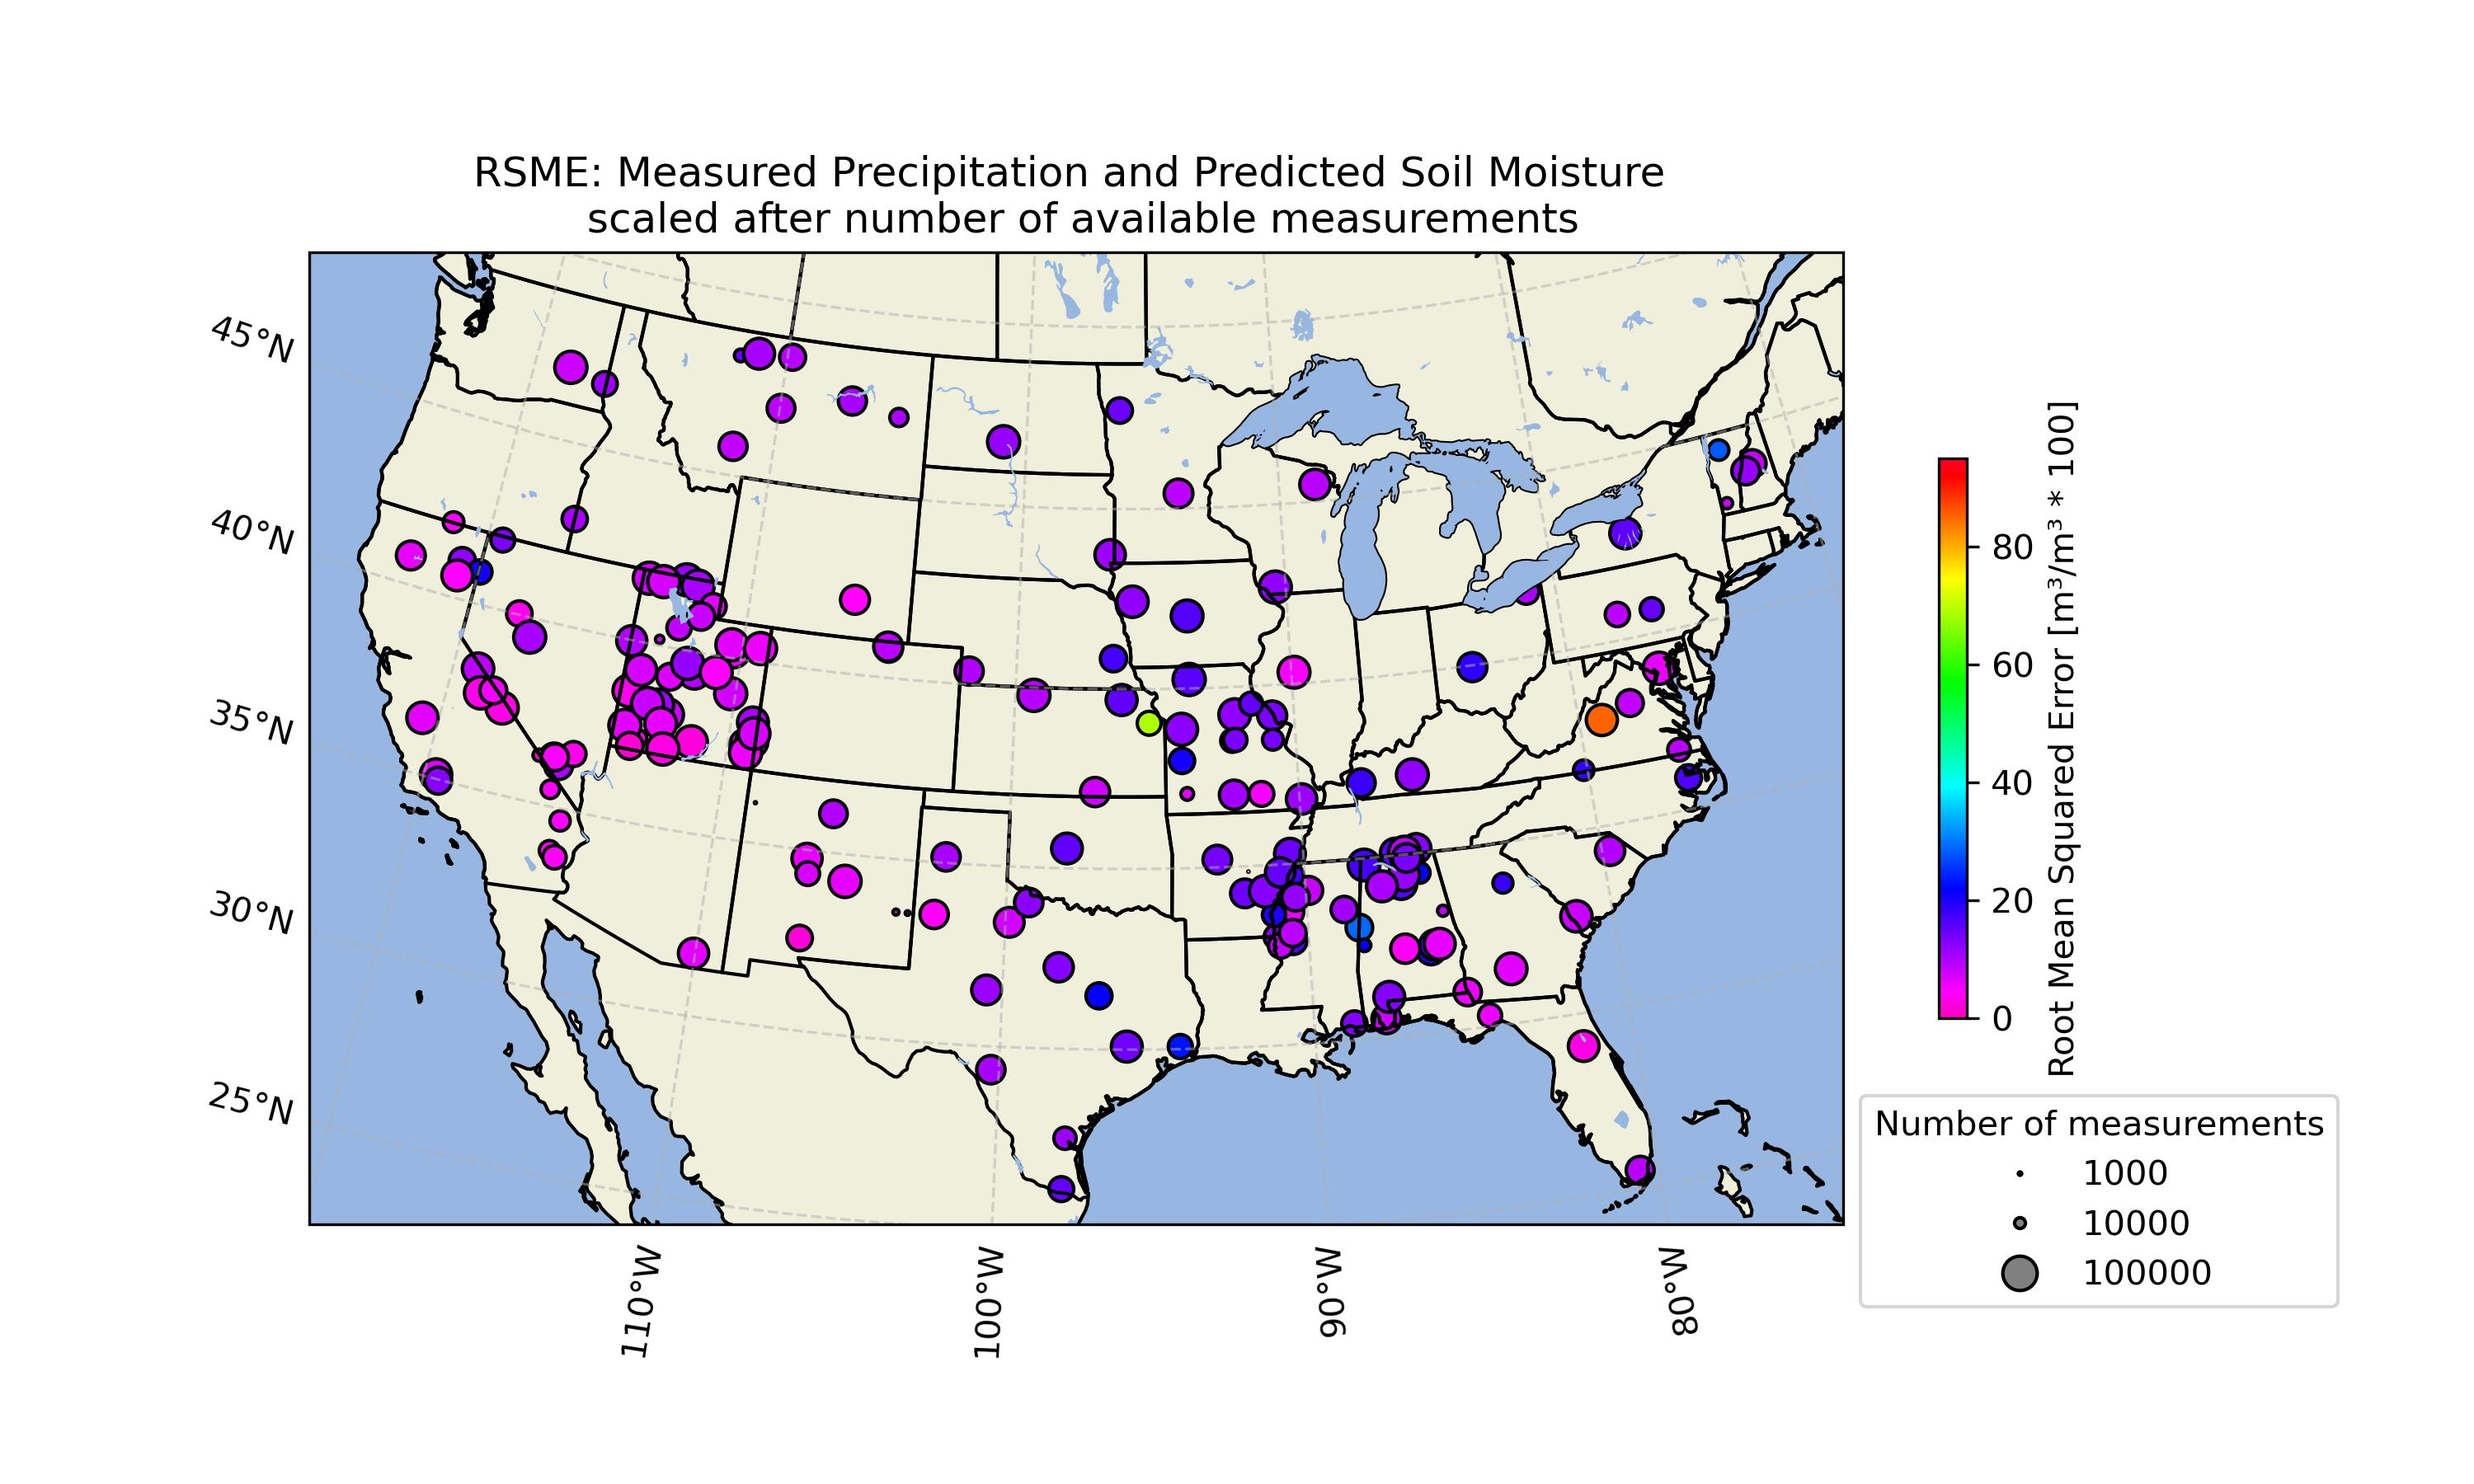
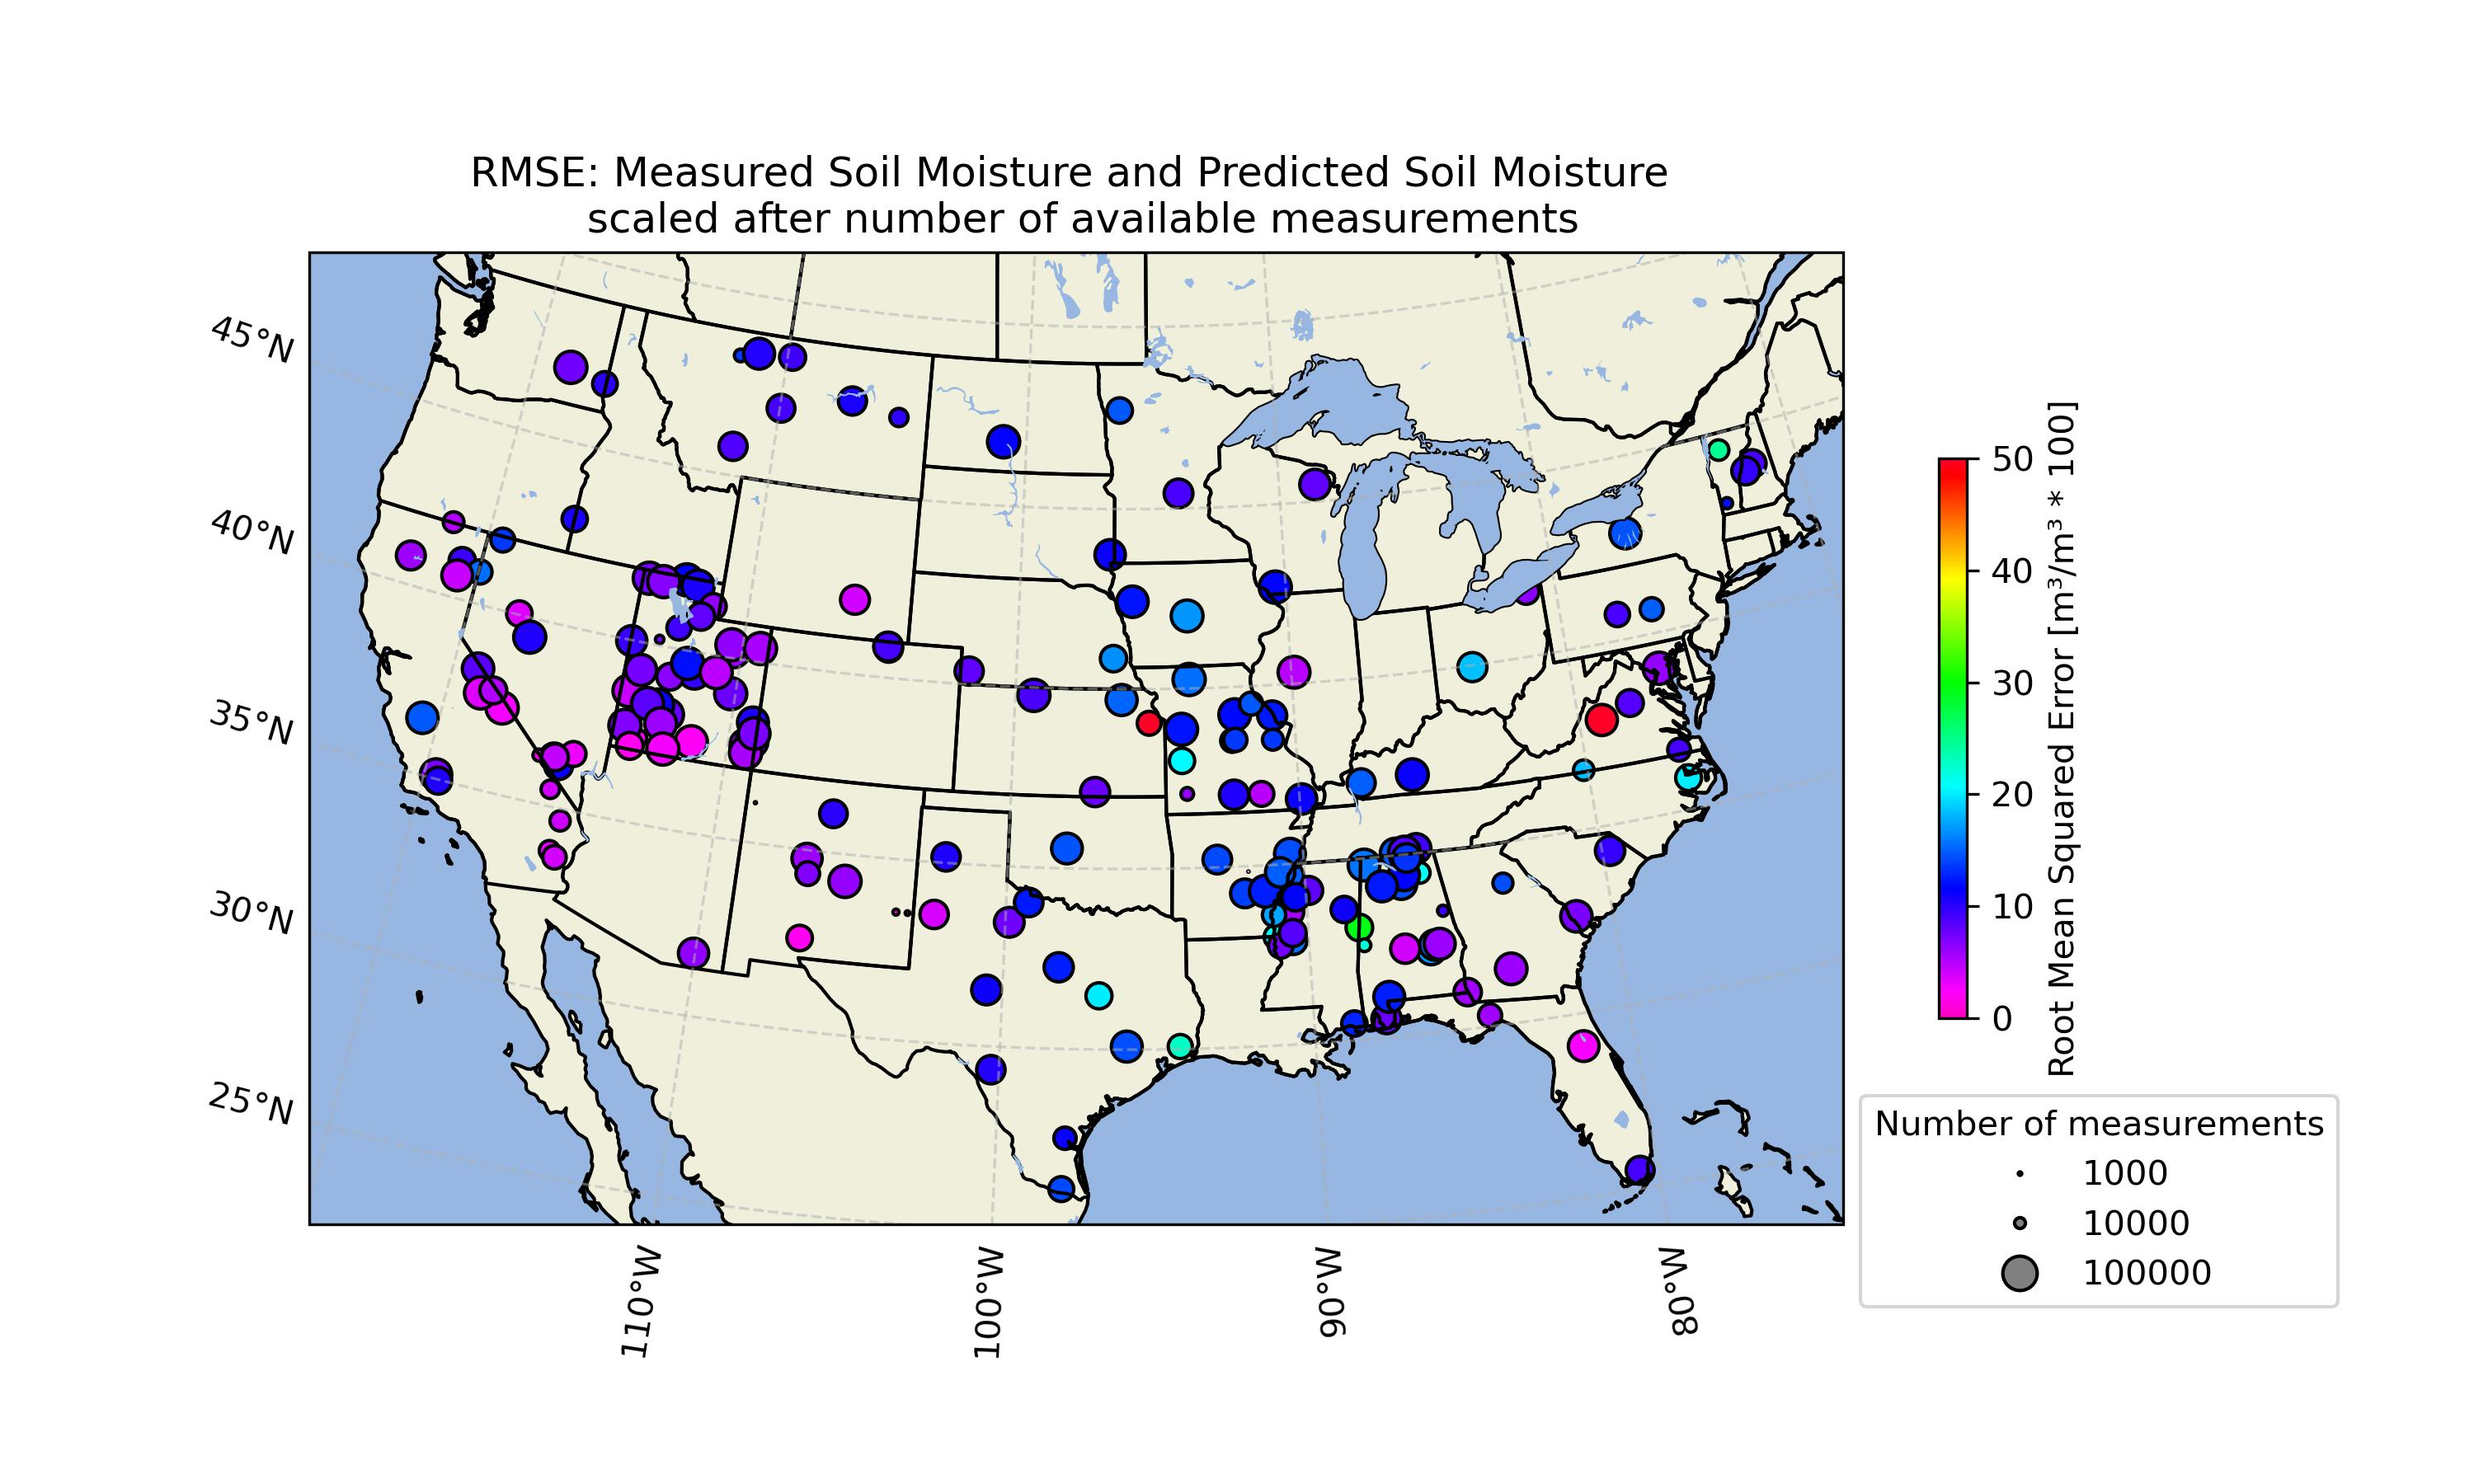
sm_prediction_syn func deleted

diff --git a/SoilMoisture.py b/SoilMoisture.py
@@ -15,11 +15,11 @@ import cartopy.feature as cfeature
 import matplotlib.lines as mlines
 
 # Felix
-path = r"C:\Users\felix\OneDrive\Dokumente\TU Wien\Geowissenschaften-Python\Data_separate_files_header_20140517_20240517_11180_U02A_20240529.zip"
+#path = r"C:\Users\felix\OneDrive\Dokumente\TU Wien\Geowissenschaften-Python\Data_separate_files_header_20140517_20240517_11180_U02A_20240529.zip"
 # Bettina
 #path = r"C:\Users\betti\OneDrive\STUDIUM\SS24\Python für Geowissenschaften\SoftwareProject\Data_separate_files_header_20140517_20240517_11181_y6B1_20240517.zip"
 # Theresa
-#path = r"/Users/theresa/Documents/UIW/Master/Python-Programmierung für Geowissenschaften/Data_separate_files_header_20140517_20240517_11182_NAWF_20240517.zip"
+path = r"/Users/theresa/Documents/UIW/Master/Python-Programmierung für Geowissenschaften/Projekt/Data_separate_files_header_20140517_20240517_11182_NAWF_20240517.zip"
 
 # read in the data:
 ismn_data = ISMN_Interface(path, parallel=False)
@@ -418,7 +418,6 @@ station_nam = "TidewaterArec" # sm n_m missing: 24; pc n_missing: 25; up to 2019
 df_1, df_2 = sm_prediction(station_nam)
 ds_pc = df_1['pc_unimputed']
 
-#percentage = [10, 20, 30, 50, 70]
 percentage = range(0,100,10)
 ds_del_l = []
 
@@ -596,79 +595,8 @@ ds_pc.plot(label='measured precipitation')
 ds_syn_pc.plot(label='synthetic precipitation')
 ax.legend()
 
-#%%
-# change station_filtered function to use synthetic precipitation instead of measured
-
-def station_filtered_syn(station_nam):
-
-    station = ismn_data['SCAN'][station_nam]
-    
-    sens = station.sensors
-    
-    target_string = "precipitation"
-    prec_sensor = [sensor for sensor in sens if target_string in sensor][-1] #changed from 0 to -1 to have pulse count pc sensor (newer data)
-    
-    target_string = "soil_moisture"
-    sm_sensor = [sensor for sensor in sens if target_string in sensor][0]
-
-    sensor_sm = ismn_data['SCAN'][station_nam][sm_sensor] #sm sensors are usually second to last
-    sensor_pc = ismn_data['SCAN'][station_nam][prec_sensor] #precipitation sensor is usually first
-
-    #get lon lat from station:
-    lon, lat = sensor_sm.metadata.to_dict()['longitude'][0][0], sensor_sm.metadata.to_dict()['latitude'][0][0]
-    
-    sm_filter = sensor_sm.data.soil_moisture[sensor_sm.data.soil_moisture >= 0]
-    pc_filter = sensor_pc.data.precipitation[sensor_pc.data.precipitation >= 0]#[sensor_pc.data.precipitation < 100]
-    
-    # imput missing hourly values
-    start_date = sm_filter.index.min()
-    end_date = pc_filter.index.max()
-    common_index = pd.date_range(start_date, end_date, freq="h")
-    
-    
-    pc_filter_unimputed = pc_filter.reindex(common_index)
-    sm_filter, n_sm = imput_missing(sm_filter.reindex(common_index))
-    #pc_filter, n_pc = imput_missing(pc_filter.reindex(common_index))
-    pc_filter, n_pc = syn_pc_gamma(pc_filter.reindex(common_index)), 0 # activate for synthetic precipitation
-    
-    
-    df_filter = pd.DataFrame({"sm": sm_filter.values, "pc": pc_filter.values, "pc_unimputed": pc_filter_unimputed.values}, index=common_index)
-
-    return df_filter, lon, lat, n_sm, n_pc
-
-# use station_filtered_syn in sm_prediction function
-def sm_prediction_syn(station_nam):
-    print(station_nam)
-    df_filter, lon, lat, n_sm, n_pc = station_filtered_syn(station_nam)
-    pc = df_filter["pc"].values
-    sm = df_filter["sm"].values
-
-    initial_guess = [0.8] # expecting high values for lamda (hourly changes)
-    result = minimize(loss, initial_guess, args=(sm, pc), bounds=[(0, 1)], method="Nelder-Mead")
-    lam_opt = result.x[0]
-    print(lam_opt)
-
-    sm_pred = api(df_filter["pc"], lam_opt)
-    df_filter['sm_pred'] = sm_pred
-
-    corr_pearson = pearsonr(df_filter["sm"], sm_pred)
-    corr_spearman = spearmanr(df_filter["sm"], sm_pred)
-
-    rescaled_sm = rescale_sm(df_filter["sm"].values, df_filter["sm_pred"].values)
-    
-    rmse = np.sqrt(np.mean((rescaled_sm - df_filter["sm"].values)**2))
-    
-    df_filter["sm_pred_rescaled"] = rescaled_sm
-    
-    df_stations = pd.DataFrame({"station": [station_nam], "lon": [lon], "lat": [lat], "lamda": [lam_opt], "pearson": [corr_pearson], "spearman": [corr_spearman],"n_sm" : [n_sm], "n_pc" : [n_pc], "rmse": [rmse],
-                               "sm_pred_rescaled": [rescaled_sm], "sm_pred": [df_filter["sm_pred"].values], "sm": [df_filter["sm"].values]})
-
-
-    return df_filter, df_stations
-
-
 # soil moisture from synthetic precipitation
-df_1_syn, df_2_syn = sm_prediction_syn(station_nam)
+df_1_syn, df_2_syn = sm_prediction(station_nam, precipitation=ds_syn_pc)
 
 #%%
 
@@ -717,7 +645,7 @@ plt.tight_layout()
 plt.show()
 
 #%%
-# duration line of meaured and predicted sm (from synthetic pc)
+# duration line of measured and predicted sm (from synthetic pc)
 
 sm_syn_sorted = sm_syn.sort_values()
 sm_measured_sorted = sm_measured.sort_values()
